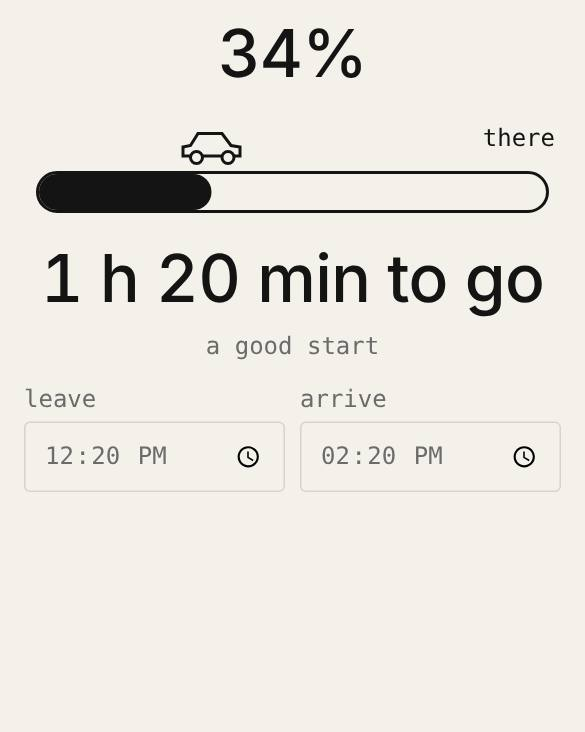
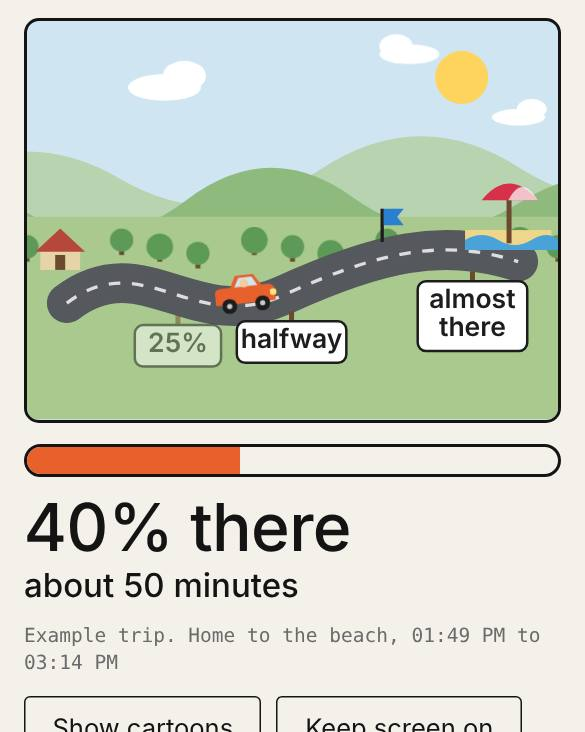
upgrade: are-we-there-yet-bar — illustrated road trip
Claude-Session: https://claude.ai/code/session_01W7ccME5aP3Yxc2oJkv6EZP

diff --git a/tools/are-we-there-yet-bar/index.html b/tools/are-we-there-yet-bar/index.html
@@ -45,96 +45,253 @@ ul.plain li { padding: 12px 0; border-bottom: 1px solid var(--line); display: fl
 .no { color: var(--no); }
 .built { color: var(--built); }
 @media (prefers-reduced-motion: reduce) { * { animation: none !important; transition: none !important; } }
-
-.meta { font-size: 16px; }
-.track { position: relative; height: 28px; border: 2px solid var(--ink); border-radius: 14px; margin: 44px 8px 8px; }
-.fill { position: absolute; left: 0; top: 0; bottom: 0; background: var(--accent); border-radius: 12px; width: 0; transition: width .6s; }
-.car { position: absolute; top: -34px; left: 0; width: 44px; height: 30px; margin-left: -22px; transition: left .6s; }
-.flag { position: absolute; right: -6px; top: -34px; font: 500 16px var(--mono); }
-.pct { text-align: center; }
-.left { text-align: center; }
-label { display: grid; gap: 4px; flex: 1; min-width: 140px; }
-@media (prefers-reduced-motion: reduce) { .fill, .car { transition: none; } }
+:root { --sky: #cfe6f2; --grass: #a9c98f; --hill1: #b7d3b0; --hill2: #8fba7e; --tree: #5d9a57; --road: #55585c; --car: #e8602c; --cloud: #fff; --sun: #ffd45e; --sign: #fff; --signink: #1d1d1d; }
+@media (prefers-color-scheme: dark) { :root { --sky: #1d2b3a; --grass: #2f4a2c; --hill1: #2c4a3d; --hill2: #28502a; --tree: #1f3d20; --road: #3a3c40; --cloud: #3b4a5b; --sun: #e8c860; --sign: #e9e9e9; } }
+body { max-width: 560px; margin: 0 auto; }
+h1 { margin-bottom: 12px; }
+#scene { display: block; width: 100%; height: auto; border-radius: 10px; border: 2px solid var(--ink); background: var(--sky); }
+#scene text { font: 600 16px var(--sans); fill: var(--signink); }
+.ready .lay { transition: transform 1s linear; }
+.cloud { animation: drift 90s linear infinite; }
+.cloud.b { animation-duration: 140s; }
+@keyframes drift { from { transform: translateX(-80px); } to { transform: translateX(400px); } }
+#carbob { animation: bob .5s ease-in-out infinite alternate; }
+@keyframes bob { from { transform: translateY(0); } to { transform: translateY(-1.4px); } }
+.sign.passed { opacity: .5; }
+.track { height: 22px; border: 2px solid var(--ink); border-radius: 11px; margin: 14px 0 10px; overflow: hidden; }
+#fill { height: 100%; width: 0; background: var(--car); }
+.ready #fill { transition: width 1s linear; }
+#pct { margin: 0; }
+#left { font-size: 22px; font-weight: 500; margin: 2px 0 8px; }
+#route, #wakemsg, #err { margin: 0 0 8px; }
+#err { color: var(--no); }
+.btns { display: flex; gap: 10px; flex-wrap: wrap; margin: 12px 0; }
+#setup { border-top: 1px solid var(--line); padding-top: 12px; margin-top: 8px; }
+#setup[hidden] { display: none; }
+#setup label { display: block; margin: 12px 0 4px; }
+.dests { display: grid; grid-template-columns: repeat(3, 1fr); gap: 8px; }
+.dests button { padding: 0 6px; }
+.dests button[aria-pressed="true"] { background: var(--car); border-color: var(--car); color: #fff; }
+#conf { position: fixed; inset: 0; width: 100%; height: 100%; pointer-events: none; }
 </style>
 <style data-embed-hide>html.embed h1:first-of-type{display:none}html.embed body{padding-top:12px}</style><script>if(location.search.indexOf("embed")>-1)document.documentElement.className+=" embed";</script>
 </head>
 <body>
-<h1 id="wish">someone should make a progress bar for the back seat so kids can see if we're there yet</h1>
-<main id="app" class="stack">
-  <div class="pct big" id="pct">0%</div>
-  <div class="track" aria-hidden="true">
-    <div class="fill" id="fill"></div>
-    <svg class="car" id="car" viewBox="0 0 44 30" fill="none" stroke="currentColor" stroke-width="2"><path d="M3 22v-6l5-1 5-8h16l6 8 6 1v6z" fill="var(--paper)"/><circle cx="12" cy="23" r="4" fill="var(--paper)"/><circle cx="33" cy="23" r="4" fill="var(--paper)"/></svg>
-    <span class="flag">there</span>
+<h1>someone should make a progress bar for the back seat so kids can see if we're there yet</h1>
+<svg id="scene" viewBox="0 0 320 240" role="img" aria-label="A little car driving along a winding road">
+  <circle cx="262" cy="34" r="16" fill="var(--sun)"/>
+  <g class="cloud" style="animation-delay:-30s"><g fill="var(--cloud)"><ellipse cx="0" cy="40" rx="22" ry="8"/><ellipse cx="12" cy="33" rx="13" ry="9"/></g></g>
+  <g class="cloud b" style="animation-delay:-90s"><g fill="var(--cloud)"><ellipse cx="0" cy="20" rx="18" ry="6"/><ellipse cx="-8" cy="15" rx="10" ry="7"/></g></g>
+  <g class="cloud" style="animation-delay:-70s"><g fill="var(--cloud)"><ellipse cx="0" cy="58" rx="16" ry="5"/><ellipse cx="8" cy="53" rx="9" ry="6"/></g></g>
+  <g id="hill1" class="lay"><path fill="var(--hill1)" d="M0,100 Q60,60 120,95 T240,90 T360,88 T480,92 T600,88 L640,92 V150 H0Z"/></g>
+  <g id="hill2" class="lay"><path fill="var(--hill2)" d="M0,118 Q50,80 100,113 T200,108 T300,106 T400,110 T500,106 T600,110 L640,113 V150 H0Z"/></g>
+  <rect y="118" width="320" height="122" fill="var(--grass)"/>
+  <g id="trees" class="lay"></g>
+  <path id="road" d="M24,170 C70,135 100,190 155,165 S250,130 296,145" fill="none" stroke="var(--road)" stroke-width="24" stroke-linecap="round"/>
+  <path d="M24,170 C70,135 100,190 155,165 S250,130 296,145" fill="none" stroke="var(--sign)" stroke-width="2" stroke-dasharray="7 7" opacity=".8"/>
+  <g id="home" transform="translate(6,128)"><path d="M2,22 V10 L14,0 L26,10 V22Z" fill="#e7d3a8"/><path d="M-1,11 L14,-3 L29,11Z" fill="#b5483a"/><rect x="11" y="13" width="6" height="9" fill="#6b4a2e"/></g>
+  <g id="dests" transform="translate(268,96)">
+    <g id="d-grandma"><path d="M2,40 V22 L22,4 L42,22 V40Z" fill="#f0d9b5"/><path d="M-2,23 L22,-1 L46,23Z" fill="#7b4fa0"/><rect x="17" y="26" width="10" height="14" fill="#6b4a2e"/><path d="M22,21 C14,14 18,10 22,15 C26,10 30,14 22,21Z" fill="#d6304a"/></g>
+    <g id="d-beach"><rect x="-4" y="30" width="52" height="12" fill="#f0d68a"/><path d="M-4,36 Q6,30 16,36 T36,36 T52,36 V42 H-4Z" fill="#4aa3d8"/><rect x="21" y="6" width="3" height="32" fill="#6b4a2e"/><path d="M6,12 Q22,-8 40,12Z" fill="#d6304a"/><path d="M22,12 Q30,-4 40,12Z" fill="#fff" opacity=".7"/></g>
+    <g id="d-zoo"><rect x="2" y="22" width="40" height="18" fill="#8a6a4a"/><rect x="8" y="14" width="28" height="9" rx="2" fill="#fff"/><rect x="20" y="28" width="5" height="12" fill="#3d2b1b"/><rect x="34" y="-6" width="5" height="26" fill="#f2b84b"/><ellipse cx="38" cy="-8" rx="7" ry="4.5" fill="#f2b84b"/><circle cx="36" cy="2" r="1.6" fill="#a8641e"/><circle cx="37" cy="12" r="1.6" fill="#a8641e"/></g>
+    <g id="d-city"><rect x="0" y="16" width="14" height="24" fill="#7f8da3"/><rect x="16" y="2" width="14" height="38" fill="#5f6f89"/><rect x="32" y="12" width="12" height="28" fill="#8e9bb0"/><g fill="#ffe9a0"><rect x="3" y="20" width="3" height="3"/><rect x="8" y="26" width="3" height="3"/><rect x="20" y="8" width="3" height="3"/><rect x="25" y="16" width="3" height="3"/><rect x="20" y="26" width="3" height="3"/><rect x="36" y="18" width="3" height="3"/></g></g>
+    <g id="d-camp"><path d="M2,40 L22,8 L42,40Z" fill="#e8602c"/><path d="M22,40 L16,40 L22,22 L28,40Z" fill="#3d2b1b"/><rect x="45" y="26" width="3" height="14" fill="#6b4a2e"/><path d="M38,28 L46,10 L54,28Z" fill="var(--tree)"/></g>
+  </g>
+  <g id="signs"></g>
+  <g id="stopsg"></g>
+  <g id="car"><g id="carbob">
+    <path d="M-18,-4 V-11 Q-18,-14 -14,-14 H14 Q18,-14 18,-10 V-4Z" fill="var(--car)"/>
+    <path d="M-9,-13 L-5,-21 H6 L11,-13Z" fill="var(--car)"/>
+    <path d="M-6,-14 L-3,-19.5 H5 L8,-14Z" fill="var(--sky)"/>
+    <circle cx="0" cy="-16" r="2.6" fill="#f3c9a0"/>
+    <circle cx="17" cy="-9" r="2" fill="#ffe27a"/>
+    <circle cx="-10" cy="-3" r="4.5" fill="#1d1d1d"/><circle cx="10" cy="-3" r="4.5" fill="#1d1d1d"/>
+    <circle cx="-10" cy="-3" r="1.6" fill="#ccc"/><circle cx="10" cy="-3" r="1.6" fill="#ccc"/>
+  </g></g>
+</svg>
+<div class="track" aria-hidden="true"><div id="fill"></div></div>
+<p id="pct" class="big">0% there</p>
+<p id="left"></p>
+<p id="route" class="meta"></p>
+<div class="btns">
+  <button id="unit" type="button">Show cartoons</button>
+  <button id="wake" type="button">Keep screen on</button>
+  <button id="open-setup" type="button" class="primary">Set up trip</button>
+</div>
+<p id="wakemsg" class="meta" role="status"></p>
+<form id="setup" hidden>
+  <label for="mins">Trip length in minutes</label>
+  <input id="mins" type="text" inputmode="decimal" autocomplete="off" placeholder="90">
+  <label for="arr">Or arrive at (used if filled)</label>
+  <input id="arr" type="time">
+  <label>Where to</label>
+  <div class="dests" id="destbtns">
+    <button type="button" data-d="grandma" aria-pressed="false">Grandma's</button>
+    <button type="button" data-d="beach" aria-pressed="true">Beach</button>
+    <button type="button" data-d="zoo" aria-pressed="false">Zoo</button>
+    <button type="button" data-d="city" aria-pressed="false">City</button>
+    <button type="button" data-d="camp" aria-pressed="false">Campsite</button>
   </div>
-  <div class="left big" id="left">--</div>
-  <div class="left meta" id="msg"></div>
-  <div class="row">
-    <label class="meta">leave<input type="time" id="dep"></label>
-    <label class="meta">arrive<input type="time" id="arr"></label>
-  </div>
-  <div class="meta" id="err"></div>
-</main>
+  <label for="stops">Stops, minutes into the trip (optional)</label>
+  <input id="stops" type="text" inputmode="text" autocomplete="off" placeholder="45, 90">
+  <p id="err" class="meta" role="status"></p>
+  <div class="btns"><button id="go" type="submit" class="primary">Start the trip</button></div>
+</form>
+<canvas id="conf"></canvas>
 <script>
-(() => {
-  'use strict';
-  const store = {
-    get(k, d) { try { const v = localStorage.getItem(k); return v == null ? d : JSON.parse(v); } catch { return d; } },
-    set(k, v) { try { localStorage.setItem(k, JSON.stringify(v)); } catch {} }
+(function () {
+  var $ = function (s) { return document.querySelector(s); };
+  var NS = document.querySelector('#scene').namespaceURI;
+  var store = {
+    get: function (k) { try { return JSON.parse(localStorage.getItem(k)); } catch (e) { return null; } },
+    set: function (k, v) { try { localStorage.setItem(k, JSON.stringify(v)); } catch (e) {} }
   };
-  const $ = (s, r = document) => r.querySelector(s);
-  const pad = n => String(n).padStart(2, '0');
-  const hm = d => pad(d.getHours()) + ':' + pad(d.getMinutes());
-  const MIN = 60000, DAY = 86400000;
+  var NAMES = { grandma: "grandma's house", beach: 'the beach', zoo: 'the zoo', city: 'the city', camp: 'the campsite' };
+  var road = $('#road'), roadLen = road.getTotalLength();
+  var now0 = Date.now(), MIN = 60000;
+  // Example trip, 40% done, so the first frame is alive.
+  var trip = { start: now0 - 34.01 * MIN, end: now0 + 51 * MIN, dest: 'beach', stops: [60], demo: true };
+  var saved = store.get('awty');
+  if (saved && saved.end > saved.start) trip = saved;
+  var cartoons = !!(store.get('awty-unit'));
+  var wasDone = false;
 
-  // default example: left 40 minutes ago, 2 hours long
-  const saved = store.get('awty', null);
-  const now0 = new Date();
-  const d0 = new Date(now0 - 40 * MIN), a0 = new Date(+d0 + 120 * MIN);
-  $('#dep').value = saved ? saved.dep : hm(d0);
-  $('#arr').value = saved ? saved.arr : hm(a0);
+  function el(name, attrs, parent) {
+    var e = document.createElementNS(NS, name);
+    for (var k in attrs) e.setAttribute(k, attrs[k]);
+    parent.appendChild(e); return e;
+  }
+  function pt(f) { return road.getPointAtLength(f * roadLen); }
 
-  function toDate(str, base) {
-    const [h, m] = str.split(':').map(Number);
-    const d = new Date(base); d.setHours(h, m, 0, 0); return d;
+  // Trees: one wide strip that slides as the trip goes on.
+  (function () {
+    var g = $('#trees');
+    for (var i = 0; i < 24; i++) {
+      var x = 14 + i * 27 + (i * 7 % 11), y = 134 + (i % 3) * 4;
+      el('rect', { x: x - 1.5, y: y, width: 3, height: 7, fill: '#6b4a2e' }, g);
+      el('circle', { cx: x, cy: y - 2, r: 7 + (i % 2), fill: 'var(--tree)' }, g);
+    }
+  })();
+
+  var signEls = [];
+  function buildSigns() {
+    var g = $('#signs'); g.innerHTML = ''; signEls = [];
+    [[0.25, ['25%']], [0.5, ['halfway']], [0.9, ['almost', 'there']]].forEach(function (m) {
+      var p = pt(m[0]), lines = m[1], h = 8 + lines.length * 17, w = lines[0].length > 5 ? 66 : 52;
+      var s = el('g', { 'class': 'sign' }, g);
+      el('rect', { x: p.x - 1.5, y: p.y + 12, width: 3, height: 14, fill: '#6b4a2e' }, s);
+      el('rect', { x: p.x - w / 2, y: p.y + 18, width: w, height: h, rx: 5, fill: 'var(--sign)', stroke: '#1d1d1d', 'stroke-width': 1.5 }, s);
+      lines.forEach(function (t, i) {
+        var tx = el('text', { x: p.x, y: p.y + 18 + 17 + i * 17 - 1, 'text-anchor': 'middle' }, s);
+        tx.textContent = t;
+      });
+      signEls.push({ f: m[0], e: s });
+    });
   }
-  function fmt(ms) {
-    const m = Math.ceil(ms / MIN);
-    if (m < 60) return m + ' min';
-    return Math.floor(m / 60) + ' h ' + pad(m % 60) + ' min';
+  function buildStops() {
+    var g = $('#stopsg'); g.innerHTML = '';
+    var total = (trip.end - trip.start) / MIN;
+    (trip.stops || []).forEach(function (m) {
+      if (!(m > 0 && m < total)) return;
+      var p = pt(m / total);
+      el('rect', { x: p.x - 1, y: p.y - 30, width: 2, height: 20, fill: '#1d1d1d' }, g);
+      el('path', { d: 'M' + (p.x + 1) + ',' + (p.y - 30) + ' h12 l-4,5 l4,5 h-12Z', fill: '#2a7fd0' }, g);
+    });
   }
-  function msgFor(p) {
-    if (p >= 1) return 'we are there';
-    if (p > 0.9) return 'almost there';
-    if (p > 0.5) return 'more than halfway';
-    if (p > 0.25) return 'a good start';
-    return 'just getting going';
+
+  function fmtLeft(ms) {
+    var m = Math.round(ms / MIN);
+    if (cartoons) {
+      if (m < 2) return 'any second now';
+      if (m < 11) return 'less than a cartoon';
+      var n = Math.max(1, Math.round(m / 22));
+      return 'about ' + n + ' more cartoon' + (n === 1 ? '' : 's');
+    }
+    if (m < 1) return 'less than a minute';
+    if (m > 10) m = Math.round(m / 5) * 5;
+    if (m < 60) return 'about ' + m + ' minute' + (m === 1 ? '' : 's');
+    var h = Math.floor(m / 60), r = m % 60;
+    return 'about ' + h + (h === 1 ? ' hour' : ' hours') + (r ? ' ' + r + ' min' : '');
   }
-  function tick() {
-    const err = $('#err');
-    if (!$('#dep').value || !$('#arr').value) { err.textContent = 'set both times'; return; }
-    err.textContent = '';
-    const now = new Date();
-    let dep = toDate($('#dep').value, now), arr = toDate($('#arr').value, now);
-    if (arr <= dep) arr = new Date(+arr + DAY);
-    // a departure far in the future means the trip began yesterday
-    if (dep - now > 12 * 3600000) { dep = new Date(+dep - DAY); arr = new Date(+arr - DAY); }
-    const total = arr - dep;
-    let p = (now - dep) / total;
-    p = Math.max(0, Math.min(1, p));
-    const pc = Math.floor(p * 100);
-    $('#pct').textContent = pc + '%';
-    $('#fill').style.width = (p * 100) + '%';
-    $('#car').style.left = (p * 100) + '%';
-    if (now < dep) { $('#left').textContent = 'leaves in ' + fmt(dep - now); $('#msg').textContent = 'not yet'; }
-    else if (now >= arr) { $('#left').textContent = 'there'; $('#msg').textContent = msgFor(1); }
-    else { $('#left').textContent = fmt(arr - now) + ' to go'; $('#msg').textContent = msgFor(p); }
+  function hhmm(t) { return new Date(t).toLocaleTimeString([], { hour: '2-digit', minute: '2-digit' }); }
+
+  function draw() {
+    var now = Date.now(), p = Math.min(1, Math.max(0, (now - trip.start) / (trip.end - trip.start)));
+    var done = p >= 1, pos = pt(p), q = pt(Math.min(1, p + 0.02)), r = pt(Math.max(0, p - 0.02));
+    var ang = Math.atan2(q.y - r.y, q.x - r.x) * 180 / Math.PI;
+    $('#car').setAttribute('transform', 'translate(' + pos.x.toFixed(1) + ',' + (pos.y + 4).toFixed(1) + ') rotate(' + ang.toFixed(1) + ')');
+    $('#hill1').style.transform = 'translateX(' + (-p * 160).toFixed(1) + 'px)';
+    $('#hill2').style.transform = 'translateX(' + (-p * 260).toFixed(1) + 'px)';
+    $('#trees').style.transform = 'translateX(' + (-p * 320).toFixed(1) + 'px)';
+    $('#fill').style.width = (p * 100).toFixed(1) + '%';
+    signEls.forEach(function (s) { s.e.setAttribute('class', 'sign' + (p >= s.f ? ' passed' : '')); });
+    ['grandma', 'beach', 'zoo', 'city', 'camp'].forEach(function (d) { $('#d-' + d).style.display = d === trip.dest ? '' : 'none'; });
+    $('#pct').textContent = done ? "We're here!" : Math.floor(p * 100) + '% there';
+    $('#left').textContent = done ? 'Everybody out!' : fmtLeft(trip.end - now);
+    $('#route').textContent = (trip.demo ? 'Example trip. ' : '') + 'Home to ' + NAMES[trip.dest] + ', ' + hhmm(trip.start) + ' to ' + hhmm(trip.end);
+    if (done && !wasDone && !trip.demo && now - trip.end < 5000) confetti();
+    wasDone = done;
   }
-  function onEdit() { store.set('awty', { dep: $('#dep').value, arr: $('#arr').value }); tick(); }
-  $('#dep').addEventListener('input', onEdit);
-  $('#arr').addEventListener('input', onEdit);
-  tick();
-  setInterval(tick, 10000);
+
+  var raf = 0;
+  function confetti() {
+    if (window.matchMedia && matchMedia('(prefers-reduced-motion: reduce)').matches) return;
+    var c = $('#conf'), x = c.getContext('2d'), W = c.width = innerWidth, H = c.height = innerHeight;
+    var cols = ['#e8602c', '#2a7fd0', '#f2b84b', '#4aa35a', '#d6304a', '#7b4fa0'], ps = [], t0 = Date.now();
+    for (var i = 0; i < 110; i++) ps.push({ x: W / 2, y: H * 0.4, vx: (Math.random() - 0.5) * 12, vy: -Math.random() * 12 - 3, s: 5 + Math.random() * 6, c: cols[i % 6], a: Math.random() * 6 });
+    cancelAnimationFrame(raf);
+    (function step() {
+      x.clearRect(0, 0, W, H);
+      ps.forEach(function (q) { q.vy += 0.3; q.x += q.vx; q.y += q.vy; q.a += 0.2; x.fillStyle = q.c; x.save(); x.translate(q.x, q.y); x.rotate(q.a); x.fillRect(-q.s / 2, -q.s / 4, q.s, q.s / 2); x.restore(); });
+      if (Date.now() - t0 < 4500) raf = requestAnimationFrame(step); else x.clearRect(0, 0, W, H);
+    })();
+  }
+
+  function setUnit() {
+    $('#unit').textContent = cartoons ? 'Show minutes' : 'Show cartoons';
+    store.set('awty-unit', cartoons); draw();
+  }
+  $('#unit').addEventListener('click', function () { cartoons = !cartoons; setUnit(); });
+
+  // Keep screen awake (Wake Lock API). Falls back to a one-line hint.
+  var lock = null;
+  async function getLock() {
+    try { lock = await navigator.wakeLock.request('screen'); $('#wake').textContent = 'Screen stays on'; $('#wakemsg').textContent = '';
+      lock.addEventListener('release', function () { if (!lock) $('#wake').textContent = 'Keep screen on'; });
+    } catch (e) { lock = null; $('#wakemsg').textContent = "Couldn't keep the screen on. Raise the screen timeout in settings."; }
+  }
+  $('#wake').addEventListener('click', function () {
+    if (!('wakeLock' in navigator)) { $('#wakemsg').textContent = "This browser can't keep the screen on. Raise the screen timeout in settings."; return; }
+    if (lock) { var l = lock; lock = null; l.release(); $('#wake').textContent = 'Keep screen on'; } else getLock();
+  });
+  document.addEventListener('visibilitychange', function () { if (lock && document.visibilityState === 'visible') getLock(); });
+
+  // Parent setup
+  var pick = trip.dest;
+  function markDest() {
+    document.querySelectorAll('#destbtns button').forEach(function (b) { b.setAttribute('aria-pressed', b.dataset.d === pick ? 'true' : 'false'); });
+  }
+  $('#destbtns').addEventListener('click', function (e) { var b = e.target.closest('button'); if (b) { pick = b.dataset.d; markDest(); } });
+  $('#open-setup').addEventListener('click', function () { var s = $('#setup'); s.hidden = !s.hidden; markDest(); });
+  $('#setup').addEventListener('submit', function (e) {
+    e.preventDefault();
+    var start = Date.now(), end, a = $('#arr').value, mins = parseFloat($('#mins').value.replace(',', '.'));
+    if (a) {
+      var d = new Date(start); d.setHours(+a.split(':')[0], +a.split(':')[1], 0, 0);
+      if (d.getTime() <= start + 30000) d.setDate(d.getDate() + 1);
+      end = d.getTime();
+    } else if (mins > 0 && mins < 3000) end = start + mins * MIN;
+    if (!end) { $('#err').textContent = 'Enter the trip length in minutes, or an arrival time.'; return; }
+    $('#err').textContent = '';
+    var stops = $('#stops').value.split(/[,\s]+/).map(parseFloat).filter(function (n) { return n > 0; });
+    trip = { start: start, end: end, dest: pick, stops: stops };
+    store.set('awty', trip);
+    wasDone = false; buildStops(); $('#setup').hidden = true; draw();
+  });
+
+  buildSigns(); buildStops(); setUnit();
+  requestAnimationFrame(function () { requestAnimationFrame(function () { document.body.classList.add('ready'); }); });
+  setInterval(draw, 500);
 })();
 </script>
 </body>
